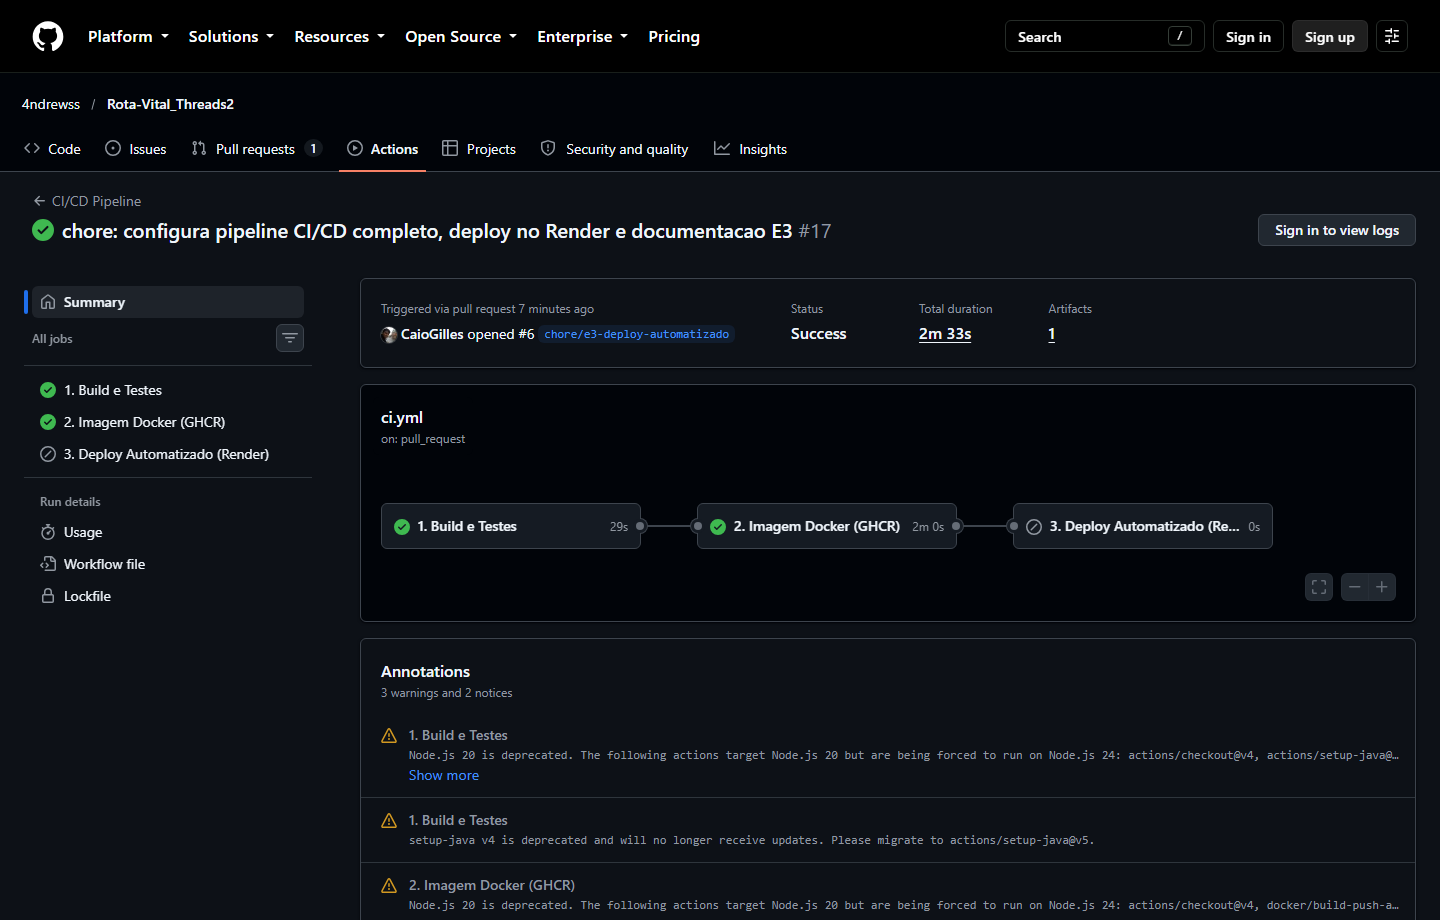
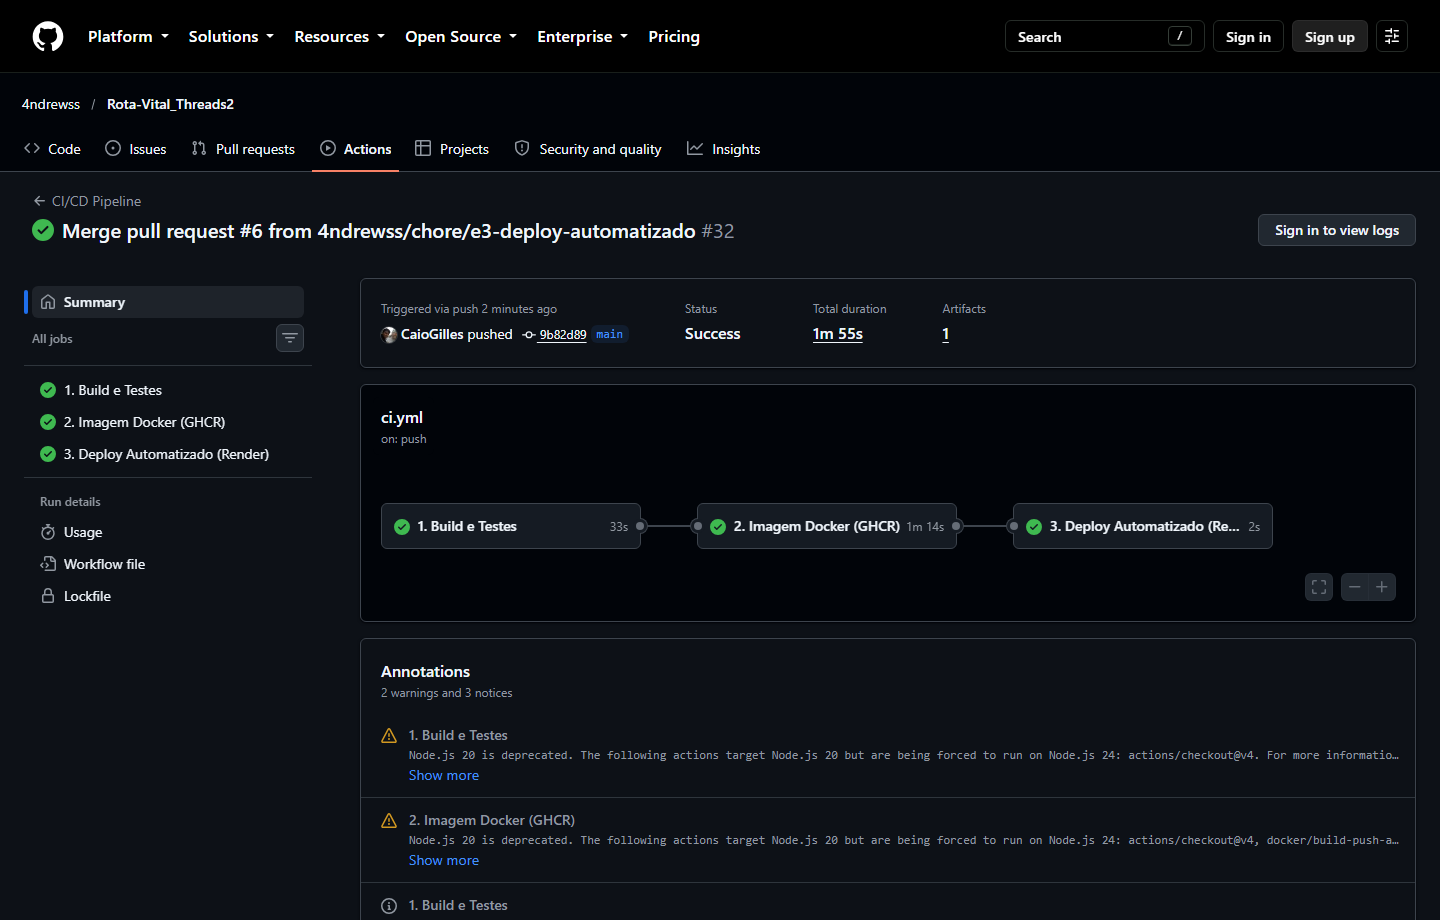
docs: atualiza e3-pipeline-verde.png com os 3 estagios verdes publicados na main

diff --git a/README.md b/README.md
@@ -339,7 +339,7 @@ Caso uma versão publicada na `main` apresente regressão em produção, há **t
 As evidências exigidas para a etapa **E3 — Deploy Automatizado** estão arquivadas em [`docs/evidencias/`](./docs/evidencias/):
 
 - **Execução vermelha barrando imagem e deploy** ([Run `#39083877310`](https://github.com/4ndrewss/Rota-Vital_Threads2/actions/runs/39083877310)): [`docs/evidencias/e3-pipeline-vermelho.png`](./docs/evidencias/e3-pipeline-vermelho.png)
-- **Execução verde validando testes e imagem Docker** ([Run `#39083580640`](https://github.com/4ndrewss/Rota-Vital_Threads2/actions/runs/39083580640)): [`docs/evidencias/e3-pipeline-verde.png`](./docs/evidencias/e3-pipeline-verde.png)
+- **Execução verde na `main` que publicou no GHCR e no Render** ([Run `#39092940462`](https://github.com/4ndrewss/Rota-Vital_Threads2/actions/runs/39092940462)): [`docs/evidencias/e3-pipeline-verde.png`](./docs/evidencias/e3-pipeline-verde.png)
 - **Pull Request com checks da esteira e revisão** ([PR `#6`](https://github.com/4ndrewss/Rota-Vital_Threads2/pull/6)): [`docs/evidencias/e3-pr-pipeline.png`](./docs/evidencias/e3-pr-pipeline.png)
 - **Proteção da branch `main` (Branch Protection Rule + Status Check `1. Build e Testes` obrigatório)**: [`docs/evidencias/e3-branch-protection.png`](./docs/evidencias/e3-branch-protection.png) e [`docs/evidencias/e3-pr-branch-protegida.png`](./docs/evidencias/e3-pr-branch-protegida.png)
 - **URL pública no ar com persistência no PostgreSQL em nuvem** ([`https://rota-vital-api.onrender.com/historico`](https://rota-vital-api.onrender.com/historico)): [`docs/evidencias/e3-api-publica.png`](./docs/evidencias/e3-api-publica.png)
